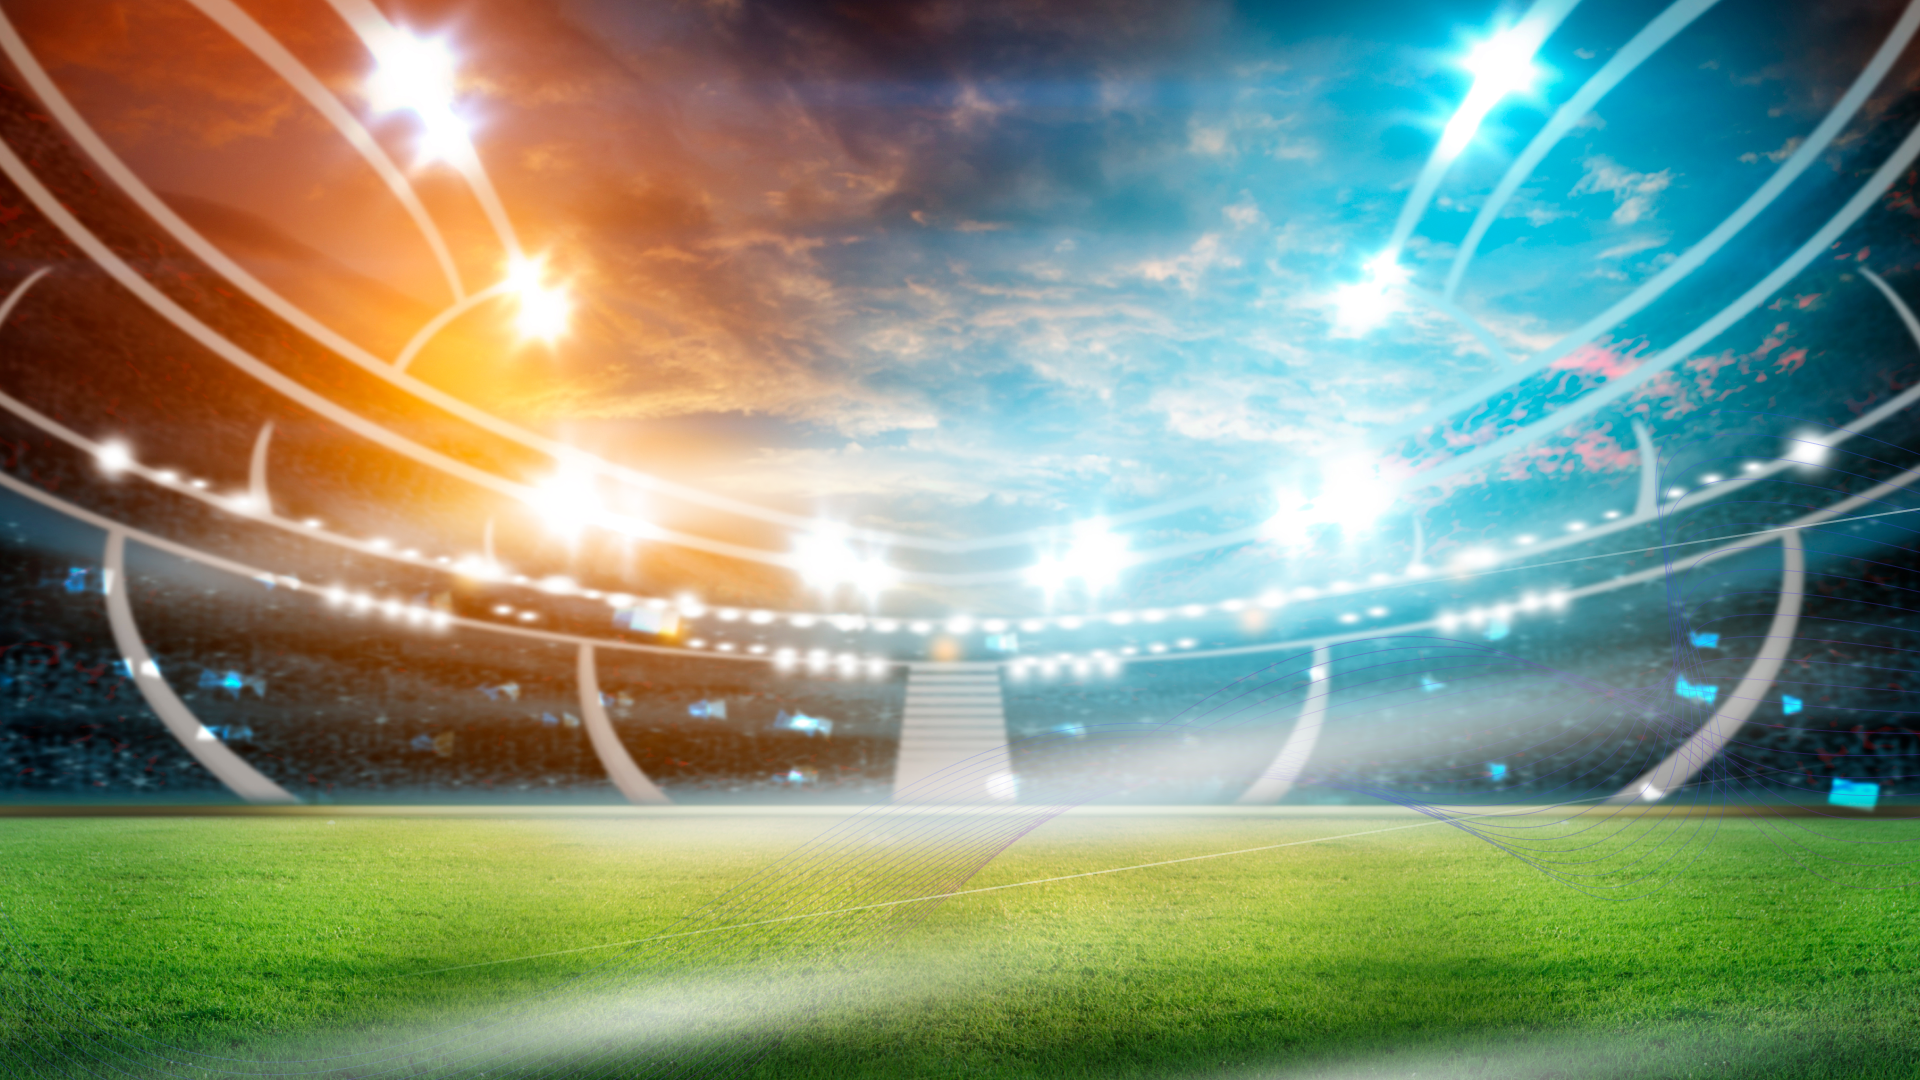
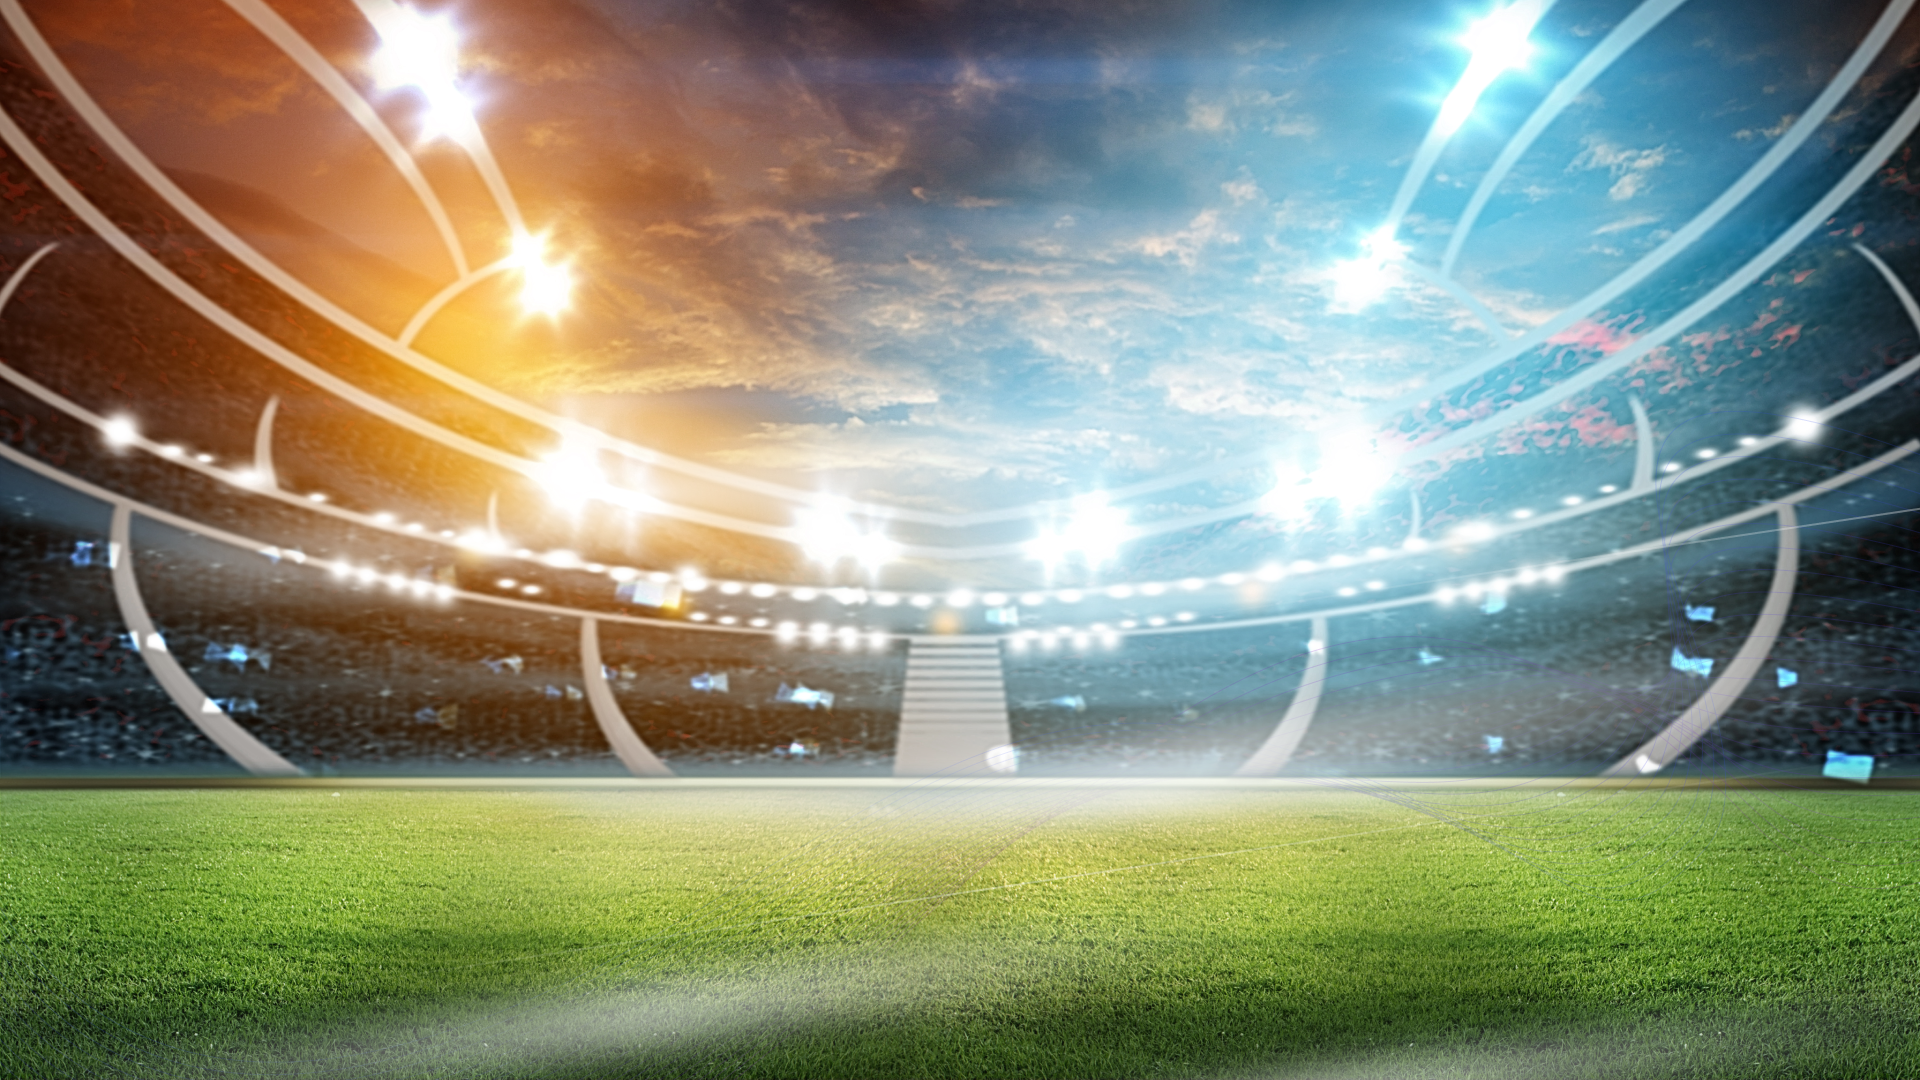
更新

diff --git a/src/page/Login.vue b/src/page/Login.vue
@@ -7,11 +7,16 @@
             <p>PLAYS中控管理</p>
         </div> -->
         <div class="ms-login">
+            <img class="headpic" src="@/assets/img/publicPics/googleTitleBg.png" alt="">
             <div class="ms-title">
                 <p>
-                    <img src="@/assets/img/publicPics/logo.png" alt="">
+                    <img style="height:67px" src="@/assets/img/publicPics/logo.png" alt="">
                 </p>
-                <p>PLAYS中控管理</p>
+                <p class="ms-title-content" >
+                    <span class="left"></span>
+                    <span><b>白沙体育</b></span>
+                    <span class="right"></span>
+                </p>
             </div>
             <el-form :model="param" :rules="rules" ref="login" label-width="0px" class="ms-content">
                 <el-form-item prop="userName">
@@ -226,10 +231,9 @@ export default {
     position: absolute;
     width: 100%;
     height: 100%; 
-    /* background-size:100% 100%; */
     background: url('../assets/img/publicPics/bg.png');
     background-repeat:no-repeat;
-    background-position: 0 -1px
+    background-position: 0 -180px
 }
 
 .top img {
@@ -249,38 +253,50 @@ export default {
 }
 
 
-
-
-
 .ms-title {
     width: 100%;
     text-align: center;
-    font-size: 16px;
-    font-weight: 600;
     margin: 25px 0px 15px;
 
 }
 .ms-title p {
     display: inline-block;
-    margin-right:10px;
+    width: 100%;
 }
 
-.ms-title img {
-    width:50px;
-    height:50px;
-    vertical-align: middle;
+.ms-title-content {
+    margin-top: 5px
+}
+
+.ms-title-content span {
+    display: inline-block;
+    width:20%;
+    height:5px;
+    font-size:13px;
+    margin:0 3px
 
 }
+.ms-title-content .left, .ms-title-content .right {
+    border-top: 1px solid #BABABA;
+    width: 14%;
+}
+
+
 .ms-login {
     position: relative;
     width: 450px;
-    height: 335px;
     max-width: 90%;
     margin: 250px auto;
-    border-radius: 5px;
+    border-radius: 7px;
     background: white;
     overflow: hidden;
 }
+
+.ms-login .headpic {
+    width:100%;
+    height:15px
+}
+
 .ms-content {
     padding: 30px 30px;
 }

diff --git a/src/components/googleCode/googleCode.vue b/src/components/googleCode/googleCode.vue
@@ -3,7 +3,7 @@
         <el-dialog width="600px" :visible.sync="dialogFormVisible" :show-close="showClo" :close-on-click-modal="false" >
                 <div slot="title" class="title">
                     <img src="@/assets/img/publicPics/logo.png" alt="">
-                    <span><b>PLAYS中控管理</b> </span>
+                    <span><b>白沙体育</b> </span>
                 </div>
 
                 <div class="googleContent">Google安全码验证</div>
@@ -179,8 +179,7 @@ export default {
 }
 
 .title img {
-    width:30px;
-    height:30px;
+    height:40px;
     vertical-align: middle;
     margin-right:15px
 }
@@ -226,7 +225,6 @@ input::-webkit-inner-spin-button {
 
 /deep/ .el-dialog { 
     border-radius: 7px;
-    height:420px;
 }
 
 
